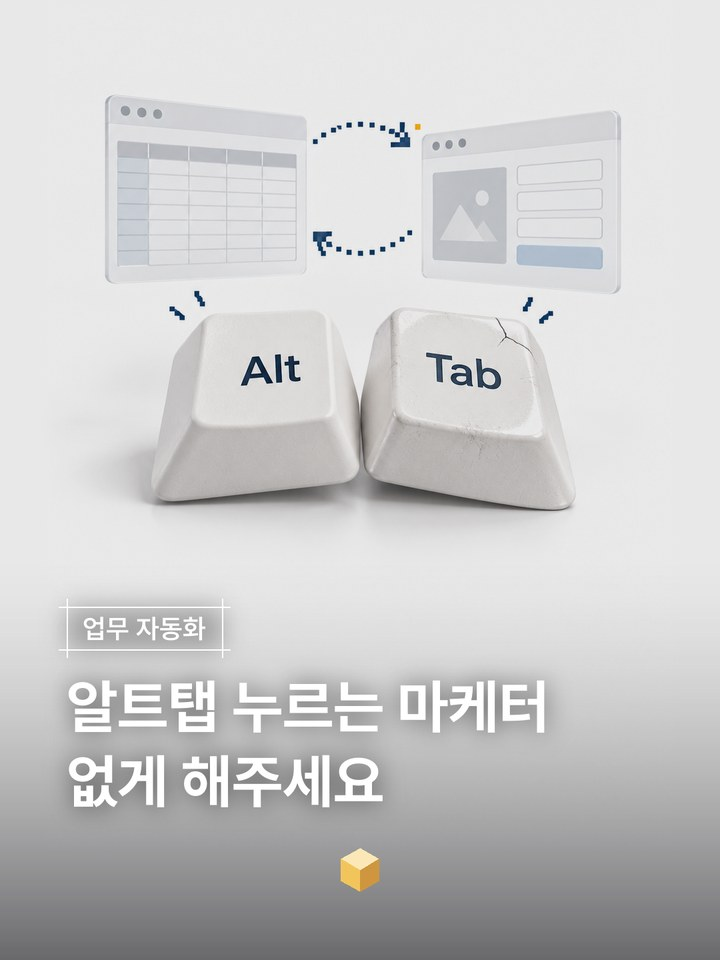
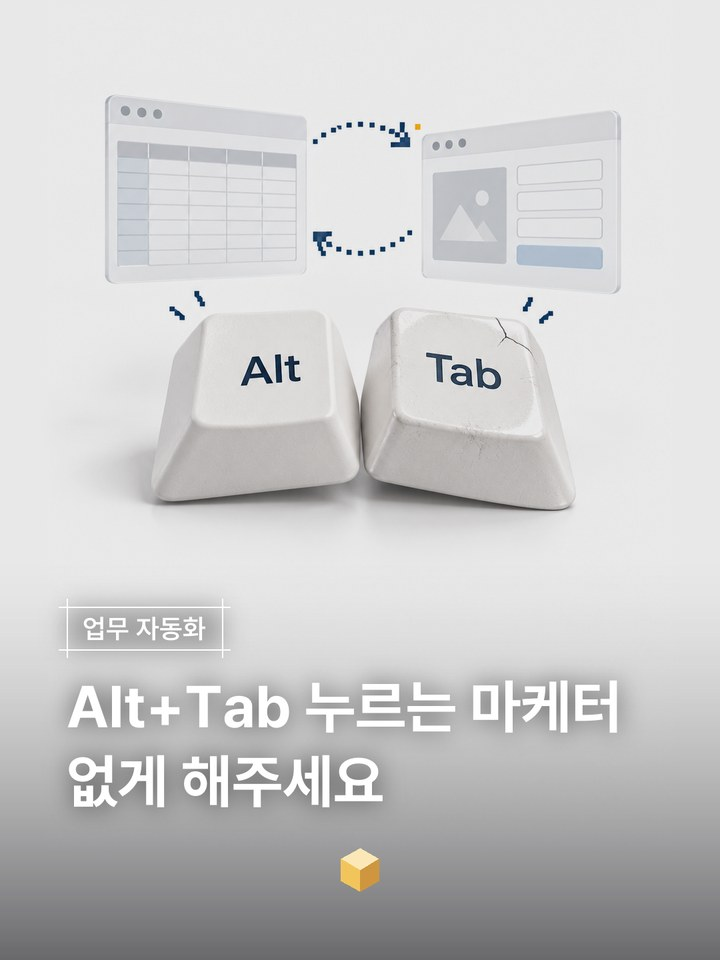
EP.07 표기: 알트탭 → Alt+Tab

Changed region(s): [[0.0917, 0.6875, 0.8861, 0.7812]]

diff --git a/ep/07/index.html b/ep/07/index.html
@@ -3,9 +3,9 @@
 <head>
 <meta charset="utf-8">
 <meta name="viewport" content="width=device-width, initial-scale=1">
-<title>EP.07 알트탭 누르는 마케터 없게 해주세요 · 이거 모르는 마케터 없게 해주세요</title>
+<title>EP.07 Alt+Tab 누르는 마케터 없게 해주세요 · 이거 모르는 마케터 없게 해주세요</title>
 <meta name="description" content="엑셀에서 한 열 복사하고 Ctrl+V만 연타하면 한 칸씩 순서대로 붙여넣어지는 '연속 붙여넣기' 툴. 파일, 설치법, Claude로 직접 만드는 프롬프트까지.">
-<meta property="og:title" content="EP.07 알트탭 누르는 마케터 없게 해주세요">
+<meta property="og:title" content="EP.07 Alt+Tab 누르는 마케터 없게 해주세요">
 <meta property="og:description" content="복사는 한 번, 붙여넣기는 연타. 연속 붙여넣기 툴 파일 + 만드는 법.">
 <meta property="og:image" content="https://goofee-9p.github.io/ai-marketing-honey/assets/img/og.jpg">
 <link rel="icon" type="image/svg+xml" href="../../assets/img/logo.svg">
@@ -23,7 +23,7 @@
 
   <div class="hero">
     <span class="chip">EP.07 · 업무 자동화</span>
-    <h1>알트탭 누르는 마케터<br><span class="hl">없게 해주세요</span></h1>
+    <h1>Alt+Tab 누르는 마케터<br><span class="hl">없게 해주세요</span></h1>
     <p class="lead">엑셀에서 한 열을 복사하고, Ctrl+V만 연타하면 한 칸씩 순서대로 붙여넣어지는 작은 툴이에요. 구글 PMax 광고 제목 15개를 넣다가 귀찮아서, Claude랑 직접 만들었어요.</p>
     <div class="meta"><span class="chip ghost">툴 파일</span><span class="chip ghost">설치 5분</span><span class="chip ghost">만드는 프롬프트</span></div>
   </div>

diff --git a/index.html b/index.html
@@ -32,7 +32,7 @@
     <div class="eps">
       <a class="ep" href="ep/07/">
         <img src="assets/img/ep07/cover_34.jpg" alt="EP.07 커버">
-        <div><div class="no">EP.07</div><div class="t">알트탭 누르는 마케터 없게 해주세요</div><div class="d">복사는 한 번, 붙여넣기는 연타. 연속 붙여넣기 툴 파일 + 만드는 법.</div></div>
+        <div><div class="no">EP.07</div><div class="t">Alt+Tab 누르는 마케터 없게 해주세요</div><div class="d">복사는 한 번, 붙여넣기는 연타. 연속 붙여넣기 툴 파일 + 만드는 법.</div></div>
       </a>
       <a class="ep" href="ep/06/">
         <img src="assets/img/ep06/cover_34.jpg" alt="EP.06 커버">

diff --git a/README.md b/README.md
@@ -9,7 +9,7 @@
 - EP.03 매일 아침 소재 교체 에이전트 · 브랜드 가이드 양식 → `ep/03/`
 - EP.04 테슬라 로드스터 밈 · 24시간 뉴스재킹 플레이북 → `ep/04/`
 - EP.05 포토샵 구독 중인 마케터, 무료로 바꾸는 법(PhotoCraft · Codex + Claude) → `ep/05/`
-- EP.07 알트탭 누르는 마케터 없게 해주세요(연속 붙여넣기 툴) → `ep/07/`
+- EP.07 Alt+Tab 누르는 마케터 없게 해주세요(연속 붙여넣기 툴) → `ep/07/`
 - EP.06 마케터 몸값 두 배 올려주는 클로드 스킬 · 무료 마케팅 스킬 7개 → `ep/06/`
 
 ## 구조
